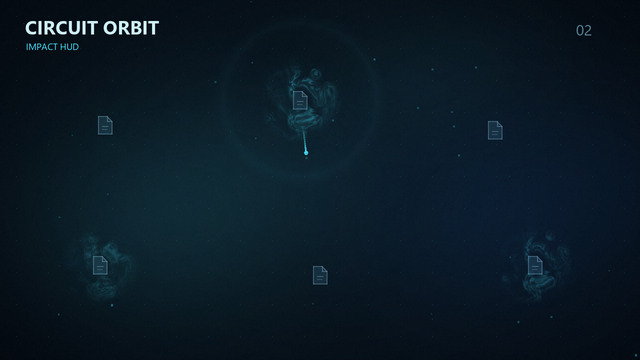
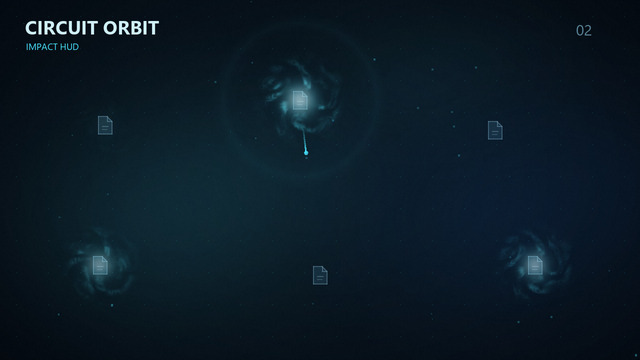
feat: shape mist markers into emissive energy orbs

Changed region(s): [[0.4062, 0.1833, 0.5, 0.3667], [0.7812, 0.6722, 0.875, 0.7944], [0.125, 0.6722, 0.1875, 0.7944]]

diff --git a/nucleus.js b/nucleus.js
@@ -2,9 +2,12 @@
   'use strict';
   const TAU = Math.PI * 2, SIZE = 192, FRAMES = 24;
   const smooth = x => { x = Math.max(0, Math.min(1, x)); return x * x * (3 - 2 * x); };
+  const lattice = new Float32Array(4096);
+  let seed = 41731;
+  for (let i = 0; i < lattice.length; i++) { seed = (seed * 1664525 + 1013904223) >>> 0; lattice[i] = seed / 4294967296; }
   function noise(x, y) {
     const ix = Math.floor(x), iy = Math.floor(y), fx = smooth(x - ix), fy = smooth(y - iy);
-    const hash = (a, b) => { const v = Math.sin(a * 127.1 + b * 311.7) * 43758.5453; return v - Math.floor(v); };
+    const hash = (a, b) => lattice[(a & 63) + (b & 63) * 64];
     const a = hash(ix, iy), b = hash(ix + 1, iy), c = hash(ix, iy + 1), d = hash(ix + 1, iy + 1);
     return (a + (b - a) * fx) * (1 - fy) + (c + (d - c) * fx) * fy;
   }
@@ -18,17 +21,27 @@
         const u = (x + .5) / (SIZE / 2) - 1, v = (y + .5) / (SIZE / 2) - 1;
         const radius = Math.hypot(u, v), angle = Math.atan2(v, u);
         const warp = noise(u * 3 + cx, v * 3 + cy) - .5;
-        const a = angle + warp * 1.7 + phase * .16;
+        const a = angle + warp * .9;
         const nx = Math.cos(a) * radius, ny = Math.sin(a) * radius;
-        const coarse = noise(nx * 5 + cx * .8, ny * 5 + cy * .8);
-        const fine = noise(nx * 13 + coarse * 2 + cy, ny * 13 + cx);
-        const ridge = Math.pow(1 - Math.abs(fine * 2 - 1), 3);
-        const envelope = Math.exp(-(((radius - (.3 + warp * .48)) / .37) ** 2));
-        const hole = .12 + .88 * smooth((radius - .1) / .23), edge = 1 - smooth((radius - .7) / .28);
-        const density = envelope * hole * edge * smooth((coarse - .19) / .5) * (.12 + ridge * .95);
+        const coarse = noise(nx * 5 + cx * .55, ny * 5 + cy * .55);
+        const fine = noise(nx * 14 + coarse * 2 + cy, ny * 14 + cx);
+        // Coherent tongues originate at the core. Radial phase travels outward,
+        // while warped angular channels curl and break into smaller wisps.
+        const channels = Math.sin(a * 5 + radius * 8 + warp * 6 - Math.sin(phase) * 1.4) * .5
+          + Math.sin(a * 3 - radius * 11 + coarse * 4 + Math.cos(phase)) * .3
+          + Math.sin(a * 9 + radius * 17 + warp * 3) * .2;
+        const tongue = smooth((channels + .35) / .95);
+        const transport = .5 + .5 * Math.sin(radius * 20 - phase * 2 + a * 3 + coarse * 3);
+        const ridge = Math.pow(1 - Math.abs(fine * 2 - 1), 2);
+        const edge = 1 - smooth((radius - .64) / .34);
+        const envelope = Math.exp(-radius * radius / .33) * edge;
+        const flames = tongue * (.2 + transport * .8) * (.23 + ridge * .77) * envelope * smooth((radius - .17) / .22);
+        const core = Math.exp(-radius * radius / (.075 + warp * .018));
+        const density = core * .62 + flames * .88;
+        const hot = Math.min(.78, core * (.7 + coarse * .1));
         const index = (y * SIZE + x) * 4;
-        for (let k = 0; k < 3; k++) image.data[index + k] = Math.min(255, rgb[k] * (.82 + ridge * .18));
-        image.data[index + 3] = Math.round(Math.min(.65, density * .58) * 255);
+        for (let k = 0; k < 3; k++) image.data[index + k] = Math.round(rgb[k] + (255 - rgb[k]) * hot);
+        image.data[index + 3] = Math.round(Math.min(.68, density) * 255);
       }
       ctx.putImageData(image, 0, 0); return canvas;
     });
@@ -36,22 +49,18 @@
   function drawStation(ctx, sprites, station, time, charge, flare, opacity, intensity) {
     if (!sprites?.length || opacity <= 0) return;
     const { x, y, radius } = station.icon;
-    const phase = ((time * .19 + station.spin / TAU) % 1 + 1) % 1 * sprites.length;
+    const phase = ((time * .32 + station.spin / TAU) % 1 + 1) % 1 * sprites.length;
     const frame = Math.floor(phase), mix = phase - frame;
     const pulse = .5 + .5 * Math.sin(time * 2.7 + station.spin);
     const ignition = charge ** 4;
-    const extent = radius * (2.15 + pulse * .09 - ignition * .22 + flare * .12);
-    const strength = opacity * intensity * (.63 + pulse * .1 + ignition * .6 + flare * .5);
+    const extent = radius * (2.25 + pulse * .08 - ignition * .3 + flare * .4);
+    const strength = opacity * intensity * (.78 + pulse * .12 + ignition * .65 + flare * .55);
     const draw = (index, weight, ox, oy, scale) => {
       ctx.globalAlpha = Math.min(1, strength * weight);
       ctx.drawImage(sprites[index % sprites.length], x - extent * scale + ox, y - extent * scale + oy, extent * scale * 2, extent * scale * 2);
     };
     draw(frame, 1 - mix, 0, 0, 1); draw(frame + 1, mix, 0, 0, 1);
-    // A diffuse upper plume rises and curls; the central hole keeps the icon readable.
-    const rise = (time * .32 + station.spin / TAU) % 1;
-    const plume = Math.sin(rise * Math.PI) * .22;
-    draw((frame + 7) % sprites.length, plume * (1 - mix), Math.sin(time + station.spin) * radius * .15, -rise * radius * .55, 1 + rise * .15);
-    draw((frame + 8) % sprites.length, plume * mix, Math.sin(time + station.spin) * radius * .15, -rise * radius * .55, 1 + rise * .15);
+    // The core stays centered; emission expands the entire corona after firing.
     ctx.globalAlpha = 1;
   }
   root.CircuitNucleus = { createSprites, drawStation };

diff --git a/README.md b/README.md
@@ -1,14 +1,14 @@
 # Circuit Orbit · Impact HUD
 
-Versão `2.3.0-beta.1`, na branch `codex/marcador-nucleo-nevoa`. A versão `2.2.0-beta.1` está consolidada na main. As versões anteriores estão preservadas nas tags Git, desde `v1.0.0`.
+Versão `2.3.0-beta.2`, na branch `codex/marcador-nucleo-nevoa`. A versão `2.2.0-beta.1` está consolidada na main. As versões anteriores estão preservadas nas tags Git, desde `v1.0.0`.
 
 ## Marcador alternativo: núcleo de névoa
 
 O controle **Marcador** alterna entre **Display futurista** e **Núcleo de névoa**, selecionado por padrão nesta revisão. A troca preserva os ícones já atingidos, a carga atual e a ordem dos tiros. Nenhum marcador aparece antes do impacto.
 
-O núcleo usa fumaça procedural irregular, com filamentos, pulsação e uma pluma ascendente. Seu centro é mais transparente para manter o ícone legível. Na carga, contrai e intensifica o brilho; o impacto e o disparo produzem um pulso. A cor, o brilho, o tamanho e a permanência existentes também controlam esse estilo. A permanência percentual e o fade de 900 ms são os mesmos do display.
+O núcleo é um orb translúcido luminoso, inspirado na referência visual de Ori fornecida pelo usuário. O centro fica mais claro, quase branco, e produz línguas de energia que se curvam e se dissipam para fora em direções irregulares. O movimento parte do centro; não há furo central ou borda circular rígida. A transparência limita a sobreposição sobre o ícone. Na carga, contrai e intensifica o brilho; o impacto e o disparo expandem a coroa de energia. A cor, o brilho, o tamanho e a permanência existentes também controlam esse estilo. A permanência percentual e o fade de 900 ms são os mesmos do display. Os desenhos são procedurais, sem copiar imagens do jogo para o tema.
 
-`nucleus.js` gera uma sequência cíclica compartilhada de 24 texturas de 192×192, com interpolação entre quadros. Cada estação tem uma fase diferente; não existe uma simulação WebGL por ícone nem acúmulo de partículas. A sequência é criada ao abrir e recriada ao trocar a cor. O custo real no Lively ainda não foi medido. A névoa do mouse continua usando sua camada WebGL independente.
+`nucleus.js` gera uma sequência cíclica compartilhada de 24 texturas de 192×192, com interpolação entre quadros. A fase radial avança para fora e o ruído deforma os filamentos; o ciclo não tem salto de orientação no fechamento. Cada estação tem uma fase diferente; não existe uma simulação WebGL por ícone nem acúmulo de partículas. São duas imagens por estação/quadro. A sequência é criada ao abrir e recriada ao trocar a cor. O custo real no Lively ainda não foi medido. A névoa do mouse continua usando sua camada WebGL independente.
 
 ## Animação
 

diff --git a/VALIDACAO.md b/VALIDACAO.md
@@ -1,4 +1,4 @@
-# Validação — Circuit Orbit 2.3.0-beta.1
+# Validação — Circuit Orbit 2.3.0-beta.2
 
 ## Testes locais
 
@@ -75,3 +75,13 @@ Instalação desta revisão: dezessete arquivos de execução copiados e hashes 
 - A nova miniatura usa o mesmo atlas e renderizador dos marcadores. Não há simulação de refração do desktop: o efeito de calor é visual, por pulsação, deformação e pluma ascendente.
 - A medição de CPU/GPU e a conferência de legibilidade sobre os ícones físicos no desktop ainda não foram realizadas nesta revisão.
 - Instalação: dezoito arquivos conferidos por hash e uma instância ativa da v2 recarregada no mesmo monitor. O mapa e as preferências existentes foram preservados; o seletor de marcador foi acrescentado. O GIF regenerado foi decodificado integralmente sem erro.
+
+## Orb com núcleo emissor — 2.3.0-beta.2
+
+Reformulação a partir das imagens de Ori fornecidas pelo usuário: núcleo central preenchido e translúcido, cor clareando para branco no centro, filamentos radiais irregulares e propagação para fora. O centro vazado e a pluma única da beta.1 foram removidos. A coroa contrai na carga e expande no impacto/disparo. Não usa imagens ou recursos do jogo.
+
+Os testes nucleus e app passaram após a alteração. O teste do atlas verifica a presença do núcleo em todos os quadros e transparência nas extremidades, além da deformação, ativação por impacto, alternância e fade. A grade de ruído é calculada uma vez e reutilizada na geração do atlas. O desenho usa duas imagens por estação, sem histórico crescente. Os testes anteriores de engine, atmosphere e mouse-fluid não foram repetidos: esses módulos não mudaram.
+
+A prévia do Chrome foi inspecionada com o mapa real salvo e não apresentou erros ou avisos no console observado. Miniatura regenerada com o mesmo renderizador. A legibilidade sobre os ícones físicos e o consumo desta revisão ainda dependem de avaliação no desktop.
+
+Captura desta revisão: `outputs/previa-orb-energia.png`. GIF decodificado integralmente sem erros. Instalação conferiu os dezoito arquivos por hash e recarregou uma instância ativa da v2, preservando mapa e preferências.
